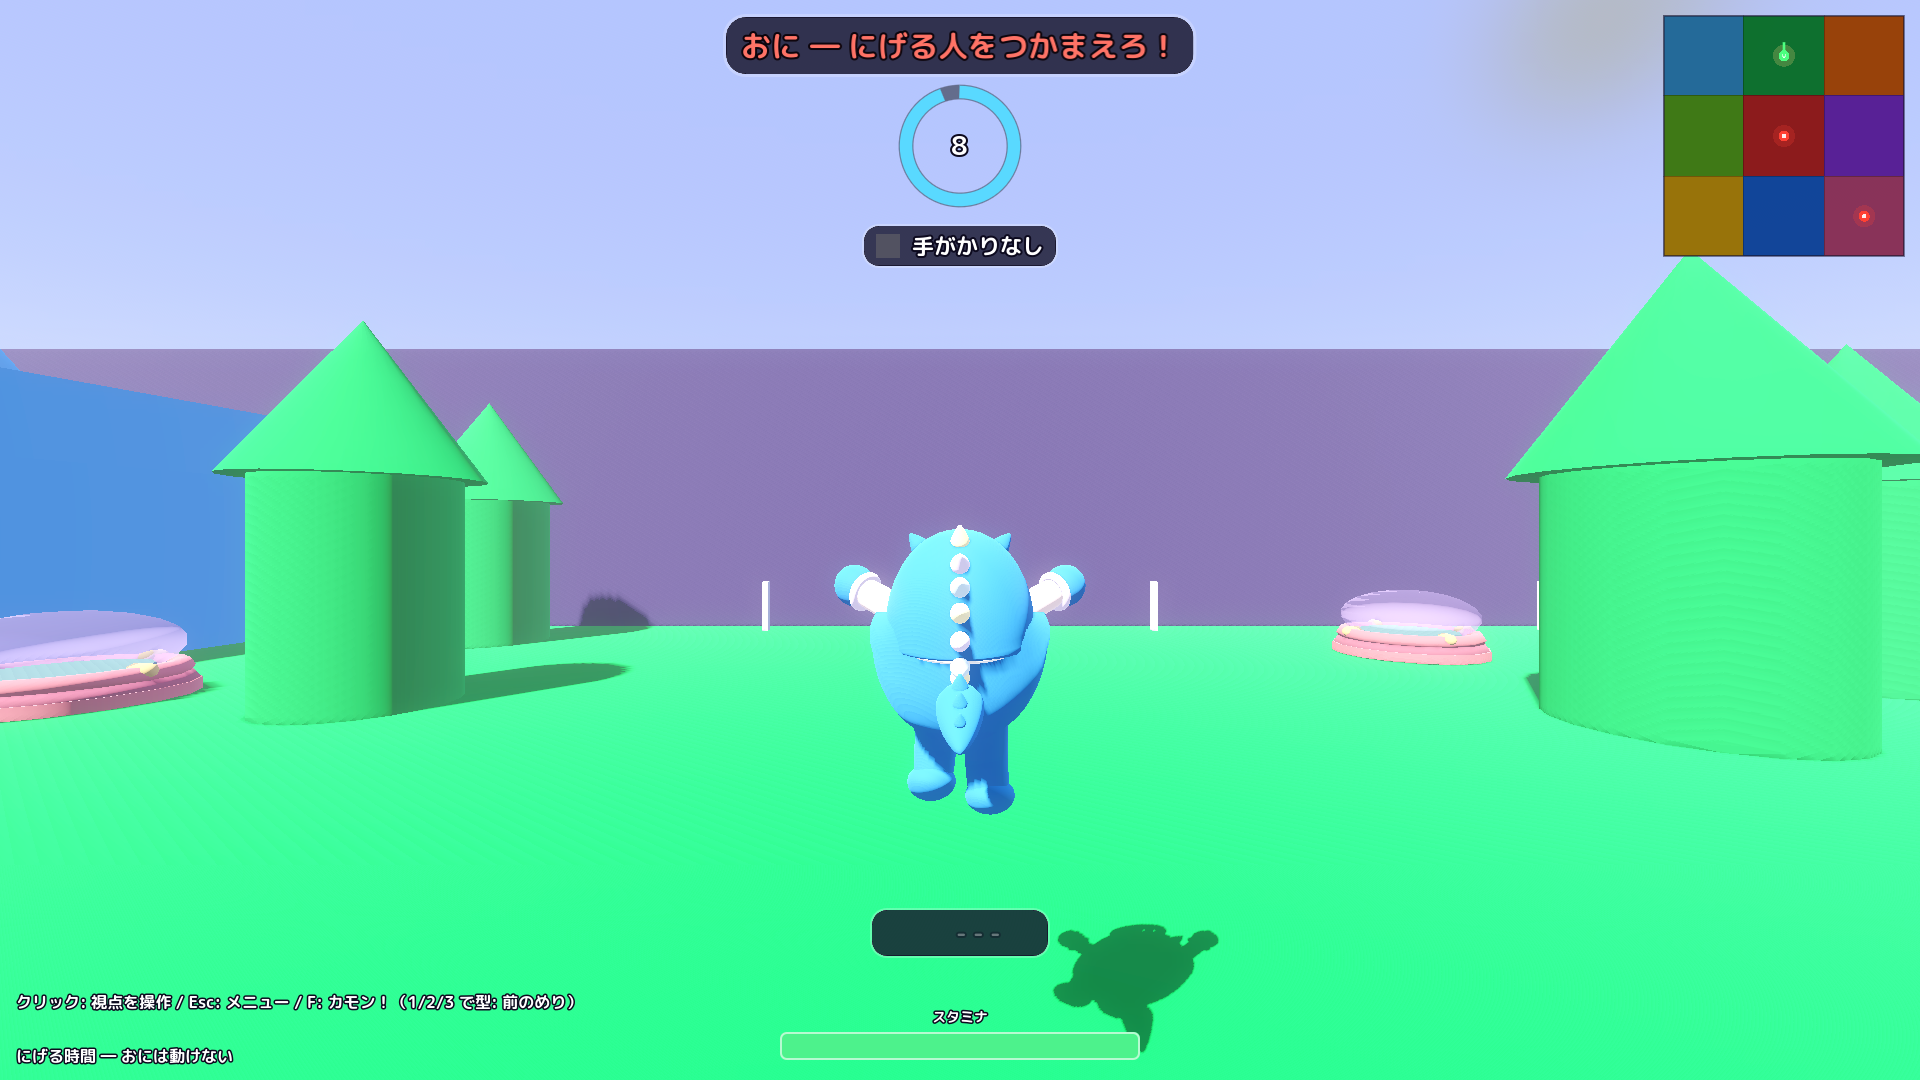
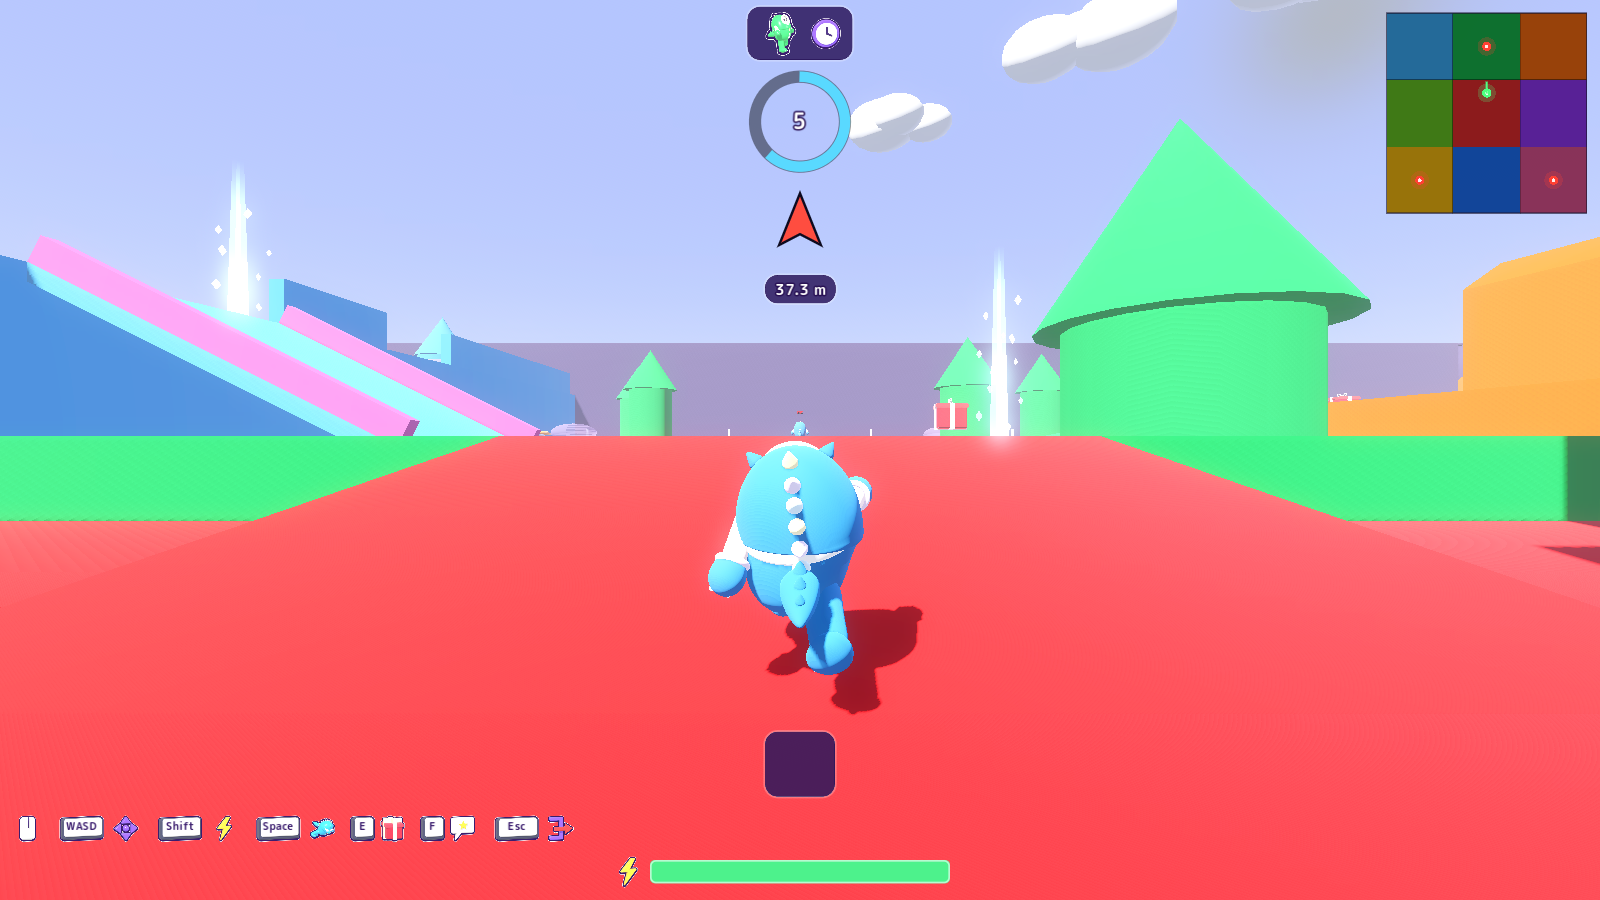
ストア用スクリーンショットを、今の UI とダミーの名前で撮り直す (KAN-59)
旧版は旧タイトルと文字ボタンのままで、そのまま uishot で撮ると開発機の実レートが
写ることも分かったため。相手が写る場面に選び直し、撮るときの注意を SPEC に残す。

diff --git a/docs/concept/store/screenshots/SPEC.md b/docs/concept/store/screenshots/SPEC.md
@@ -16,17 +16,23 @@ ranking_dialog / room_match_dialog / migration_overlay
 ([tests/uishot.gd](../../../tests/uishot.gd)参照)。
 
 ## 枚数・選定案
-itch.io推奨は3〜5枚。候補:
+itch.io推奨は3〜5枚。今の5枚と、撮り方:
 
 1. タイトル画面(`title.png`)
-2. ロビー(`lobby.png` または `lobby_picked.png`、役割が決まっている見た目)
-3. 鬼視点の追跡または逃走者視点(`playing.png`)
-4. エモート(`emote.png`、連携要素が伝わる)
-5. リザルト(`result.png`)
+2. ロビー(`lobby_picked.png`、役割が決まっている見た目)
+3. 逃走者視点のラウンド開始直後(`playing.png`、マップと滑り台が見える。Web版の OGP 画像にも使う)
+4. Reverse Tag の対戦中(`reverse_tag.png`、鬼が画面に入っている)
+5. ショップ(`shop.png`、見た目アイテムと店員さん)
+
+`tests/uishot.gd` の `playing` はカウントダウン中で相手が写らないので、3・4はソロ練習を動かして撮った。
+1・2は下の理由で、名前とレートをダミーにして撮った。
 
 ## 写り込みの禁止事項(公開前に必ず確認)
 - 招待リンク行(`InviteRow`)に実トンネルURL(`?s=xxxx.trycloudflare.com`)が写っていないか
 - 実プレイヤー名・EOSのID・フレンドコードが写っていないか
+- レートの実値が写っていないか。`tests/uishot.gd` は開発機の実プロフィールを読むので、そのまま撮ると
+  タイトルとロビーに実際の名前とレートが出る。撮影の前に `ProfileManager.player_name` と `rating` を
+  メモリ上でダミーに置き換える(`save_guard` があるので実セーブには残らない)
 - `tests/uishot.gd`の標準実行では`NetworkManager.public_address`を設定しないため
   `lobby.png`に招待リンク行自体が出ない想定だが、撮影時に目視で再確認すること
 
